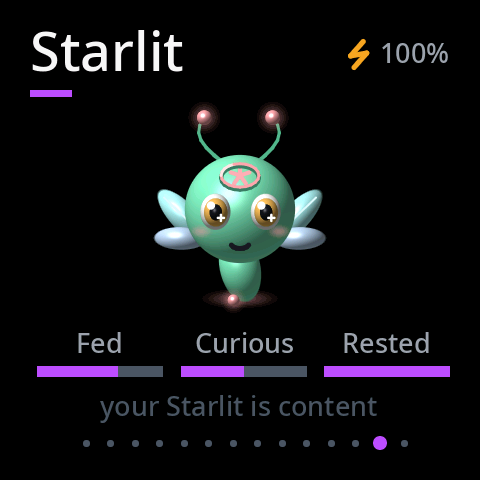
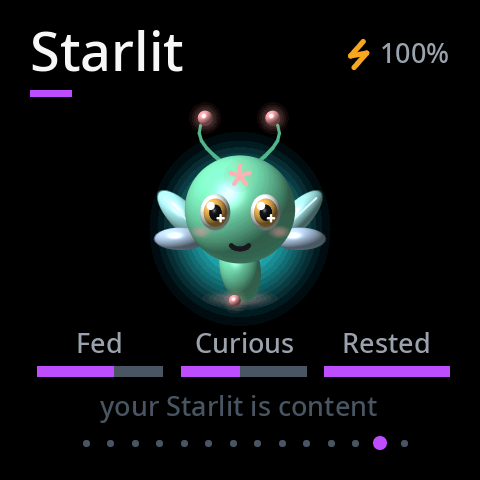
Starlit auras; About and Logs scroll faster; 30 fps in low power mode
Starlits: the path-hash ring is replaced by a faint aura round the whole
Starlit, amber for 1-byte, cyan for 2-byte, violet for 3-byte (none until
known). It's centred on the Starlit's own head and body, so it hops, bobs,
sways and breathes with it.

Scrolling (Glass): composeLayer skipped nothing, so a background in a theme
colour (ChattaMesh's navy) was blended pixel by pixel. Now plain background
and plain pane are handled two pixels at a time, and layerSpans() notes where
each layer row has anything, so empty space isn't even read (PSRAM is slow).
About: 23 -> 15 ms a frame. Logs uses the menus' hardware compose for what
fits in its buffer (about the first 14 entries) and list frames there:
32 -> 17 ms; further down it stays on the CPU path (~32 ms). composeList now
declines a slice past its buffer instead of clipping it. Menus (~55 fps) and
page slides (~58 fps) are already paced by the panel's own refresh.

Low power mode: at most 30 frames a second, slides and drags included (the
frame gate, and SF32Display::setCap30 for slides). Starlits already hold
still there.

Claude-Session: https://claude.ai/code/session_01BS1aGjNmWVV3cRX57ZjrXH

diff --git a/src/platform/SF32Display.cpp b/src/platform/SF32Display.cpp
@@ -479,12 +479,16 @@ void SF32Display::clear() {
 static uint16_t* s_saved_fb;
 static int s_saved_area_h, s_saved_offset_y;
 static int s_layer_h = 0;  // rows drawn in the last beginLayer()
+// each layer row's content, [x0, x1) panel px (x0 >= x1: none), when s_spans_ok (layerSpans)
+static uint16_t s_span0[LAYER_ROWS], s_span1[LAYER_ROWS];
+static bool s_spans_ok = false;
 
 static uint32_t s_layer_gen = 0;  // bumped each time the layer is cleared for a new list
 uint32_t SF32Display::layerGen() const { return s_layer_gen; }
 
 int SF32Display::beginLayer(int h, bool clear) {
   s_layer_gen++;
+  s_spans_ok = false;
   int rows = (int)lroundf(h * SCALE) + 4;
   if (rows > LAYER_ROWS) rows = LAYER_ROWS;
   s_layer_h = rows;
@@ -510,12 +514,26 @@ void SF32Display::clearRows(int y, int h) {
 }
 
 void SF32Display::resumeLayer() {
+  s_spans_ok = false;
   s_saved_fb = s_fb;
   s_saved_area_h = s_area_h;
   s_saved_offset_y = s_offset_y;
   s_fb = s_layer;
   s_offset_y = -s_shift_y;
   s_area_h = s_layer_h;
+}
+
+void SF32Display::layerSpans() {
+  const uint16_t bg = UIColor::window_bkg;
+  const uint32_t bg2 = ((uint32_t)bg << 16) | bg;
+  for (int r = 0; r < s_layer_h; r++) {
+    const uint32_t* row = (const uint32_t*)(s_layer + r * PANEL_W);
+    int a = 0, b = PANEL_W / 2;
+    while (a < b && (row[a] == bg2 || row[a] == 0)) a++;
+    while (b > a && (row[b - 1] == bg2 || row[b - 1] == 0)) b--;
+    s_span0[r] = a * 2; s_span1[r] = b * 2;
+  }
+  s_spans_ok = true;
 }
 
 void SF32Display::endLayer() {
@@ -558,10 +576,25 @@ void SF32Display::composeLayer(int x, int y, int w, int h, int src_px) {
       }
       const uint16_t* from = s_layer + src * PANEL_W;
       const uint16_t* frost = s_frost + py * PANEL_W;
-      for (int i = x0; i < x1; i++) {
+      int rx0 = x0, rx1 = x1;
+      if (s_spans_ok && !bare) {  // only where the row has something (the frame has the wallpaper)
+        if (s_span0[src] > rx0) rx0 = s_span0[src];
+        if (s_span1[src] < rx1) rx1 = s_span1[src];
+      }
+      // the layer's background (black, or a theme's colour such as ChattaMesh's navy) is bare
+      // wallpaper, already in the frame: skipped two pixels at a time (it was blended, ~47 ms)
+      const uint16_t bg = UIColor::window_bkg;
+      const uint32_t bg2 = ((uint32_t)bg << 16) | bg;
+      const uint32_t key2 = ((uint32_t)GLASS_KEY << 16) | GLASS_KEY;
+      for (int i = rx0; i < rx1; i++) {
+        if (!(i & 1) && i + 1 < rx1) {  // two at a time where they're plain pane or background
+          uint32_t v = *(const uint32_t*)(from + i);
+          if (v == key2) { *(uint32_t*)(dst + i) = *(const uint32_t*)(frost + i); i++; continue; }
+          if (v == bg2 || v == 0) { if (bare) *(uint32_t*)(dst + i) = *(const uint32_t*)(wall + i); i++; continue; }
+        }
         uint16_t p = from[i];
-        if (p == GLASS_KEY) dst[i] = frost[i];  // the commonest by far
-        else if (p == 0) { if (bare) dst[i] = wall[i]; }
+        if (p == GLASS_KEY) dst[i] = frost[i];
+        else if (p == 0 || p == bg) { if (bare) dst[i] = wall[i]; }
         else dst[i] = add565(frost[i], p);
       }
     }
@@ -699,6 +732,7 @@ void SF32Display::layerRowsDone(int y, int h) {
 
 // A slice of a menu's rows into the frame: panes frosting what's behind, then what's on them. On
 // a list frame (nothing drawn behind it) the wallpaper goes in first, band margins included.
+int SF32Display::listRows() { return glassActive() ? OVER_ROWS : s_layer_h; }
 bool SF32Display::composeList(int y, int h, int src_px) {
   const int x0 = px_x(4), x1 = x0 + OVER_W;
   int y0 = px_y(y), y1 = px_y(y + h);
@@ -706,7 +740,7 @@ bool SF32Display::composeList(int y, int h, int src_px) {
   if (y1 > PANEL_H) y1 = PANEL_H;
   if (src_px < 0 || y1 <= y0) return true;
   const int rows = glassActive() ? OVER_ROWS : s_layer_h;
-  if (src_px + (y1 - y0) > rows) y1 = y0 + rows - src_px;
+  if (src_px + (y1 - y0) > rows) return false;  // past what the hardware's copy holds: composeLayer does it
   if (y1 <= y0) return true;
   const int by0 = _list_frame ? (y0 - 6 < 0 ? 0 : y0 - 6) : y0;
   const int by1 = _list_frame ? (y1 + 6 > PANEL_H ? PANEL_H : y1 + 6) : y1;
@@ -743,6 +777,7 @@ bool SF32Display::composeList(int y, int h, int src_px) {
 #else
 void SF32Display::layerRowsDone(int, int) {}
 bool SF32Display::composeList(int, int, int) { return false; }
+int SF32Display::listRows() { return 0; }
 #endif
 
 
@@ -1510,8 +1545,15 @@ void SF32Display::animate(Transition dir) {
 }
 
 // One frame of a slide: the new frame `off` panel pixels in. The first part waits for the panel's sync.
+bool SF32Display::s_cap30 = false;
 void SF32Display::slideTo(Transition dir, int off) {
   const int W = PANEL_W, Hh = PANEL_H;
+  if (s_cap30) {  // low power mode: at most 30 frames a second (a slide is timed by the clock: same length)
+    static rt_tick_t last = 0;
+    int32_t wait = (int32_t)(last + rt_tick_from_millisecond(33) - rt_tick_get());
+    if (wait > 0 && wait < 40) rt_thread_delay(wait);
+    last = rt_tick_get();
+  }
   off &= ~1;  // the panel's windows start on even pixels
   if (dir == TRANSITION_LEFT) {          // new page comes in from the right
     sendPart(s_shown, off, 0, 0, 0, W - off, Hh, true);

diff --git a/src/companion_ui/UITask.cpp b/src/companion_ui/UITask.cpp
@@ -895,18 +895,22 @@ void UITask::loop() {
   sf32_ui_animating = _display != NULL && _display->isOn() && (_drag_on || (long)(_next_refresh - millis()) <= 20);  // SF32
 
   if (_display != NULL && _display->isOn()) {
-    if (millis() >= _next_refresh && curr && !_drag_on) {
+    static unsigned long last_frame = 0;  // SF32: low power mode: at most 30 frames a second, however asked for
+    if (millis() >= _next_refresh && curr && !_drag_on && !(lowPower() && millis() - last_frame < 33)) {
       unsigned long frame_start = millis();  // SF32: pace animation from the frame's start
+      last_frame = frame_start;
 #ifdef SF32_FRAME_LOG
       rt_tick_t f0 = rt_tick_get();
 #endif
       ((SF32Display *) _display)->setGlassPaused(_aod);  // the always-on clock stays on black
       // left the list meanwhile, or a popup is up: a list frame sends only the list, and the
       // popup's band would replace it (stale header area, the list not sent)
-      if (curr != menu || millis() < _banner_expiry || millis() < _alert_expiry) ((SF32Display *) _display)->cancelListFrame();
+      bool list_screen = curr == menu || curr == about_screen || (curr == logs_screen && !((LogScreen*)logs_screen)->inDetail());
+      if (!list_screen || millis() < _banner_expiry || millis() < _alert_expiry) ((SF32Display *) _display)->cancelListFrame();
       _display->startFrame();
       ((SF32Display *) _display)->setSquareLayout(true);  // SF32: all screens are full-panel
       int delay_millis = curr->render(*_display);
+      if (lowPower() && delay_millis < 33) delay_millis = 33;  // SF32: low power mode: at most 30 fps
 #ifdef SF32_FRAME_LOG
       rt_tick_t f1 = rt_tick_get();
 #endif

diff --git a/src/platform/SF32Display.h b/src/platform/SF32Display.h
@@ -38,13 +38,21 @@ public:
   uint32_t layerGen() const;  // changes whenever beginLayer() starts a new layer: still ours?
   void endLayer();
   void composeLayer(int x, int y, int w, int h, int src_px);
+  // After drawing a layer that's mostly background (About, Logs, Friends): note where each row's
+  // content is, so composing skips the rest without reading it (the layer is in slow PSRAM).
+  // Any later drawing into the layer forgets it.
+  void layerSpans();
   // The same for a layer of things drawn on the plain background (no panes), such as Starlits:
   // only what differs from the background is copied (in Glass, the wallpaper shows behind).
   void composeSprites(int x, int y, int w, int h, int src_px);
+  // low power mode: slides at most 30 fps (the UI caps its own frames the same)
+  static bool s_cap30;
+  static void setCap30(bool on) { s_cap30 = on; }
   // The same for a menu's rows (x = 4..124), by the graphics hardware: faster. layerRowsDone after
   // drawing rows into the layer (logical). composeList returns false if it couldn't: use composeLayer.
   void layerRowsDone(int y, int h);
   bool composeList(int y, int h, int src_px);
+  static int listRows();  // how many layer rows (panel px) composeList can take
 
   // Only rows y..y+h (logical) changed in this frame (a scrolling list): send just that
   // band to the panel (faster). For the next endFrame() only; ignored with a transition.

diff --git a/README.md b/README.md
@@ -332,9 +332,10 @@ too.
   breathes, blinks, looks at your finger, and does little things on its own.
 - **Friends** (its swipe-up menu): the Starlits of your favourite nodes and the 5 others heard
   most recently, in a grid that scrolls; tap one to meet it.
-- **Path-hash size**: a Starlit whose node sends 2- or 3-byte path hashes wears a ring of light
-  round its star (yours too); the meet view says which, learnt from the node's adverts (no
-  messages needed). Kept in a tiny file (5 bytes a node, the newest 32).
+- **Path-hash size**: each Starlit glows with a faint aura for its node's path-hash size:
+  amber for 1-byte, cyan for 2-byte, violet for 3-byte (none until it's known; yours from your
+  setting). The meet view says it in words. Learnt from the node's adverts (no messages
+  needed), kept in a tiny file (5 bytes a node, the newest 32).
 - **Gentle by design**: it never dies or nags, and never transmits anything. While the screen is
   off it does nothing at all (no battery cost); time away is caught up when you look. It's
   saved on the board and survives reflashing. Sounds and Reset are in Settings > Starlit.
@@ -477,8 +478,9 @@ auto-replies.
   Glass style; Bluetooth advertises every 2 s instead of 500 ms while no phone is connected,
   and once a connected phone has been quiet for 30 s it's asked for a slower rhythm (messages
   from the phone then take up to ~0.4 s); the radio uses power-saving receive gain (about
-  0.7 mA less, a little less sensitive; the app's setting comes back afterwards).
-  The radio keeps listening and your phone can still connect. Your settings aren't changed:
+  0.7 mA less, a little less sensitive; the app's setting comes back afterwards). The
+  screen draws at most 30 frames a second (slides and scrolling included), and Starlits hold
+  still. The radio keeps listening and your phone can still connect. Your settings aren't changed:
   turning it off puts everything back. **Auto at** turns it on by itself when the battery
   reaches that level (once per discharge, not again if you turn it off), and USB power turns
   an automatic one back off. It saves power while the screen is on; with the screen off the
